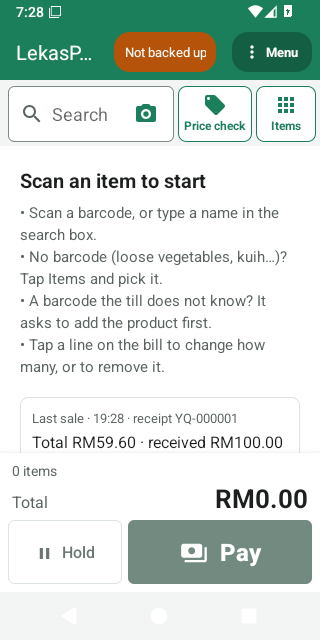
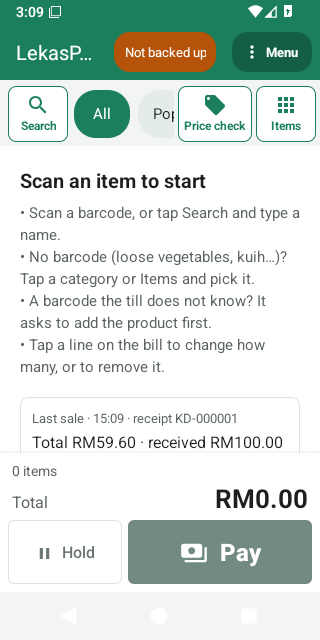
1.19.0 test build published (build 195); guide pictures of the selling screen

diff --git a/docs/PHASES.md b/docs/PHASES.md
@@ -42,7 +42,7 @@ to the user. **The next phase starts only after the user's real-device feedback.
 | — | **1.17.0**: the owner's feedback on 1.16.1 — every tappable control looks like a button (dialog buttons, payment, "Tap here" texts); the catalogue opens on All; held sideways the tiles start at the top; no Share after a sale; Settings → Beep sound (this till's speaker by default, not the cast TV) (D-076) | test builds v1.17.0 (build 180), v1.17.1 (build 182: the bill right under the bar again, Menu a pill) and v1.17.2 (build 184: Menu apart from the cashier's name) | **released** 2026-10-13 (v1.17.2, build 184) — the owner asked to release it ("yup publish it"); offered in the app to shops on 1.6.1+; phone checks still to run |
 | — | **1.17.3**: the product form says what a barcode is and that the SKU is not one ("Your own code (SKU)") — the owner found the two read as the same thing | **released** 2026-10-13 (v1.17.3, build 187) — the owner asked to release it ("do it all for me") and checked it on the phone: "all good"; offered in the app to shops on 1.6.1+ |
 | — | **1.18.0**: the till asks to close the shift — Lock / switch user asks "Close the shift?", an optional closing-time reminder; the drawer's money moves renamed to what they are: Add cash, Pay from drawer, Take out extra cash (D-077) | **released** 2026-10-13 (v1.18.0, build 190) — tested by the owner: "ok all good now" |
-| — | **1.19.0**: the category chips in the top row beside a **Search** button; Search opens the box in their place; the camera a button of its own (D-078) | in progress — code and docs done; CI and a test build next |
+| — | **1.19.0**: the category chips in the top row beside a **Search** button; Search opens the box in their place; the camera a button of its own (D-078) | test build **v1.19.0** (build 195) — waiting for the owner's phone check |
 
 ## Open questions for the user
 
@@ -2218,7 +2218,13 @@ after click search all category will be disappear and search bar will be fill th
 - [x] First CI run 38414863853 (736bf1d): all jobs green; its phone picture (320dp) showed half of "All" beside the camera →
       the camera moved into the open box on a phone upright, chips a little narrower
 - [x] Local: `compileDebugKotlin`, `lintDebug` (no errors), `check-site.mjs` OK
-- [ ] CI on the branch; test build v1.19.0; screenshots refreshed from CI; the owner's phone check; release APK size
+- [x] CI run 38418220321 (2edb2e2, build 195): all jobs green (build, lint, instrumented API 21 + 36, tablet, release smoke
+      API 21 + 36). Release APK **1,666,671 bytes**. Its 320dp phone picture: Search, All, the next chip peeking, Price
+      check, Items
+- [x] **Test build v1.19.0** (2026-10-13): pre-release on 2edb2e2, build 195; SHA-256 `b7a073ad…4008`; certificate
+      `0a67abec…d4b9`; `mapping-1.19.0.txt` attached. 1.18.0 stays the latest release
+- [x] Guide pictures refreshed from that run: `en/ms-sell`, `en/ms-sell-empty`, `en/ms-tablet-sell` (1280 px)
+- [ ] The owner's phone check
 
 ### Needs real-device testing (1.19.0)
 
